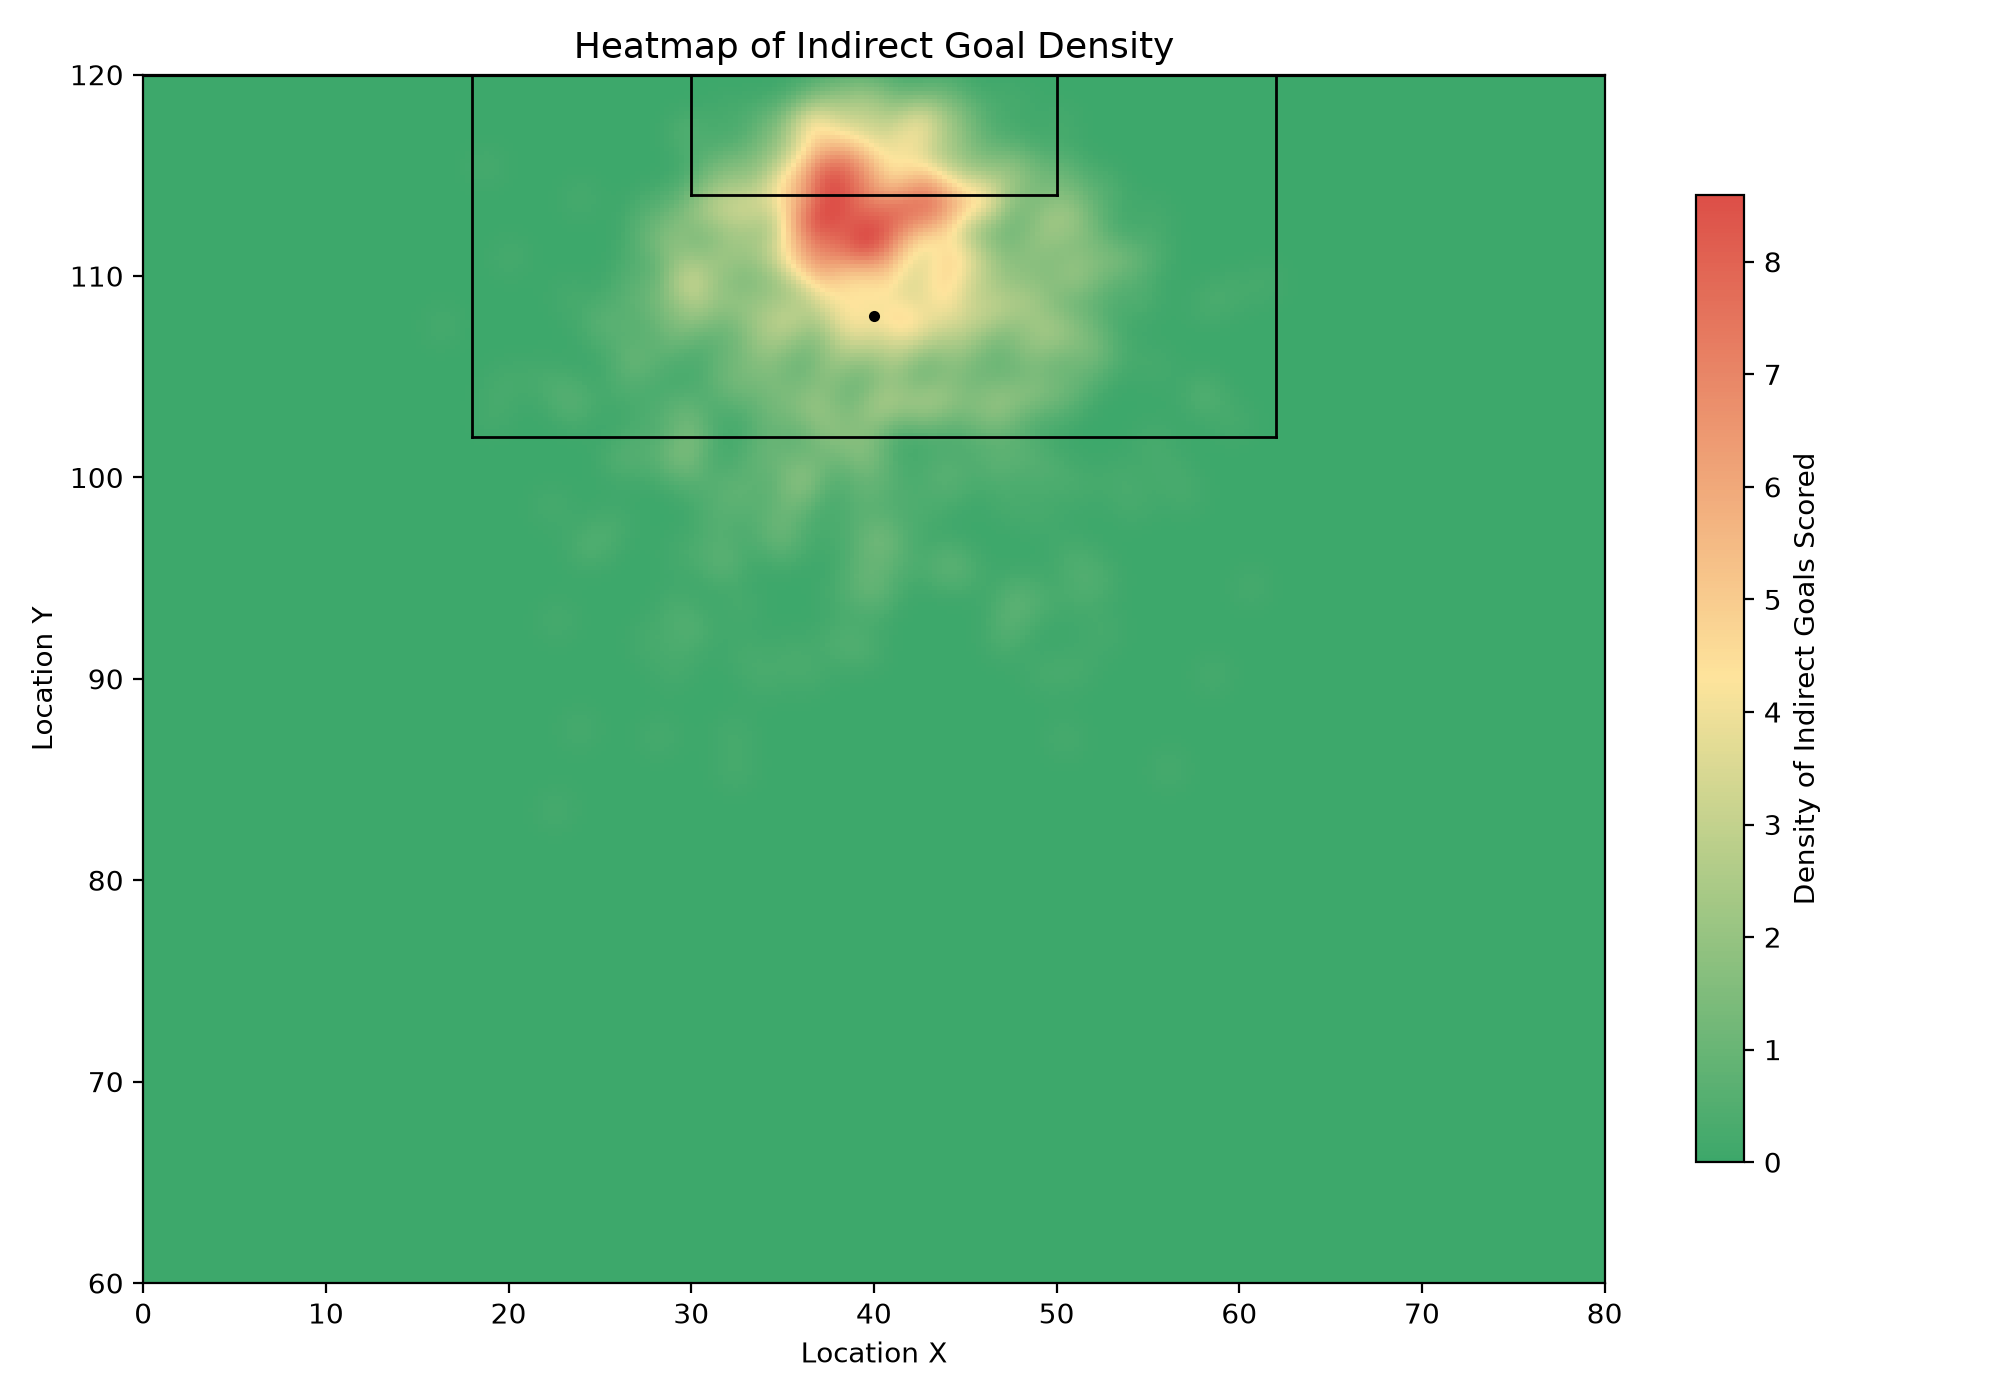
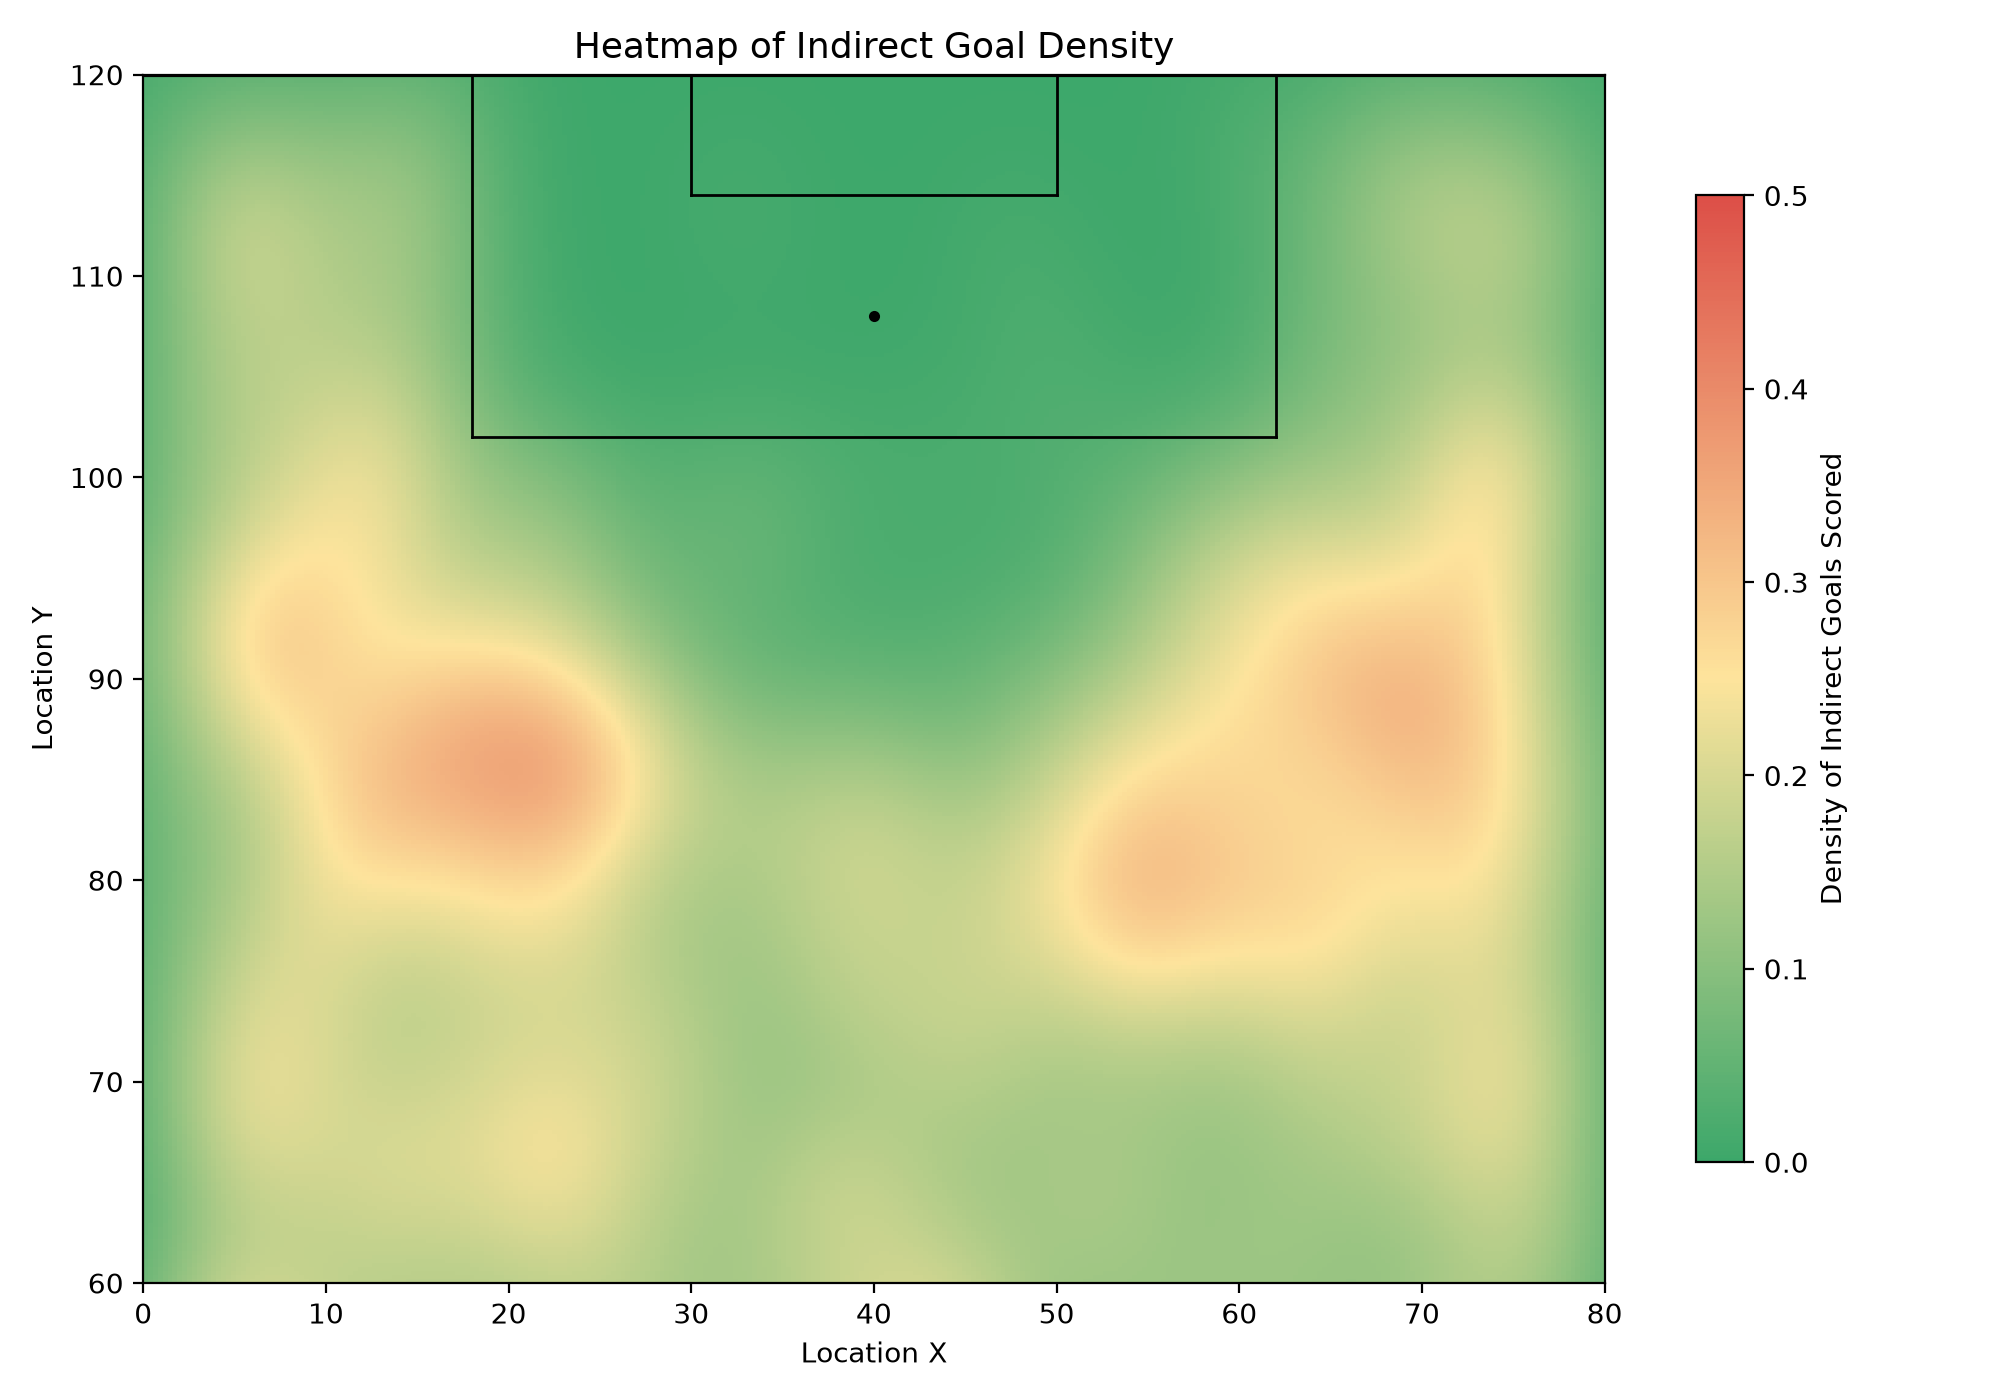
heatmaps

diff --git a/src/build_heatmap_indirect_overlay.py b/src/build_heatmap_indirect_overlay.py
@@ -4,7 +4,7 @@ import matplotlib.pyplot as plt
 from matplotlib.colors import LinearSegmentedColormap
 from scipy.stats import gaussian_kde
 
-df = pd.read_csv("data/freekicks_indirect_only.csv")
+df = pd.read_csv("data/freekicks_indirect_fkspot.csv")
 
 goals = df[df["is_goal"] == 1]
 

diff --git a/src/build_heatmap_indirect.py b/src/build_heatmap_indirect.py
@@ -4,7 +4,7 @@ import pandas as pd
 import numpy as np
 from scipy.stats import gaussian_kde
 
-df = pd.read_csv("data/freekicks_indirect_only.csv")
+df = pd.read_csv("data/freekicks_indirect_fkspot.csv")
 
 goals = df[df["is_goal"] == 1]
 
